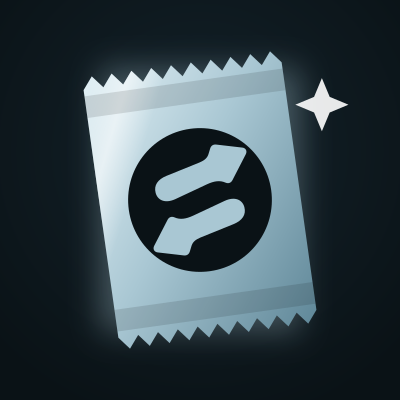
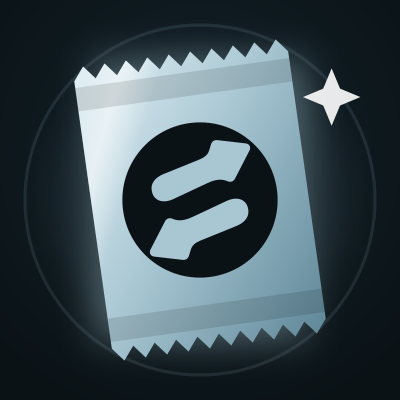
stonkpacks.store and @StonkPacksStore: site links, X profile picture, header and first post in StonkFun steel blue
Claude-Session: https://claude.ai/code/session_01CKizwNUuLhvCqaYYh9hKp6

diff --git a/assets/brand/x-header.html b/assets/brand/x-header.html
@@ -8,33 +8,33 @@
 <link rel="stylesheet" href="https://fonts.googleapis.com/css2?family=Inter:wght@500;600;700;800;900&family=JetBrains+Mono:wght@700&family=Space+Grotesk:wght@600;700&display=swap">
 <link rel="stylesheet" href="../../css/style.css">
 <style>
-  html, body { margin: 0; background: #050607; }
-  .hdr { position: relative; width: 1500px; height: 500px; overflow: hidden; background: #050607; }
+  html, body { margin: 0; background: #0a1216; }
+  .hdr { position: relative; width: 1500px; height: 500px; overflow: hidden; background: #0a1216; }
   /* tilted wall of real cards on the right, fading into the dark */
   .wall { position: absolute; right: -170px; top: -230px; width: 1250px; height: 1000px; perspective: 1400px; }
   .grid { position: absolute; inset: 0; display: grid; grid-template-columns: repeat(7, 150px); gap: 18px; justify-content: center; align-content: center;
     transform: rotateX(28deg) rotateY(-24deg) rotateZ(14deg); transform-style: preserve-3d; }
   .grid .card { width: 150px; box-shadow: 0 18px 30px rgba(0, 0, 0, 0.6); }
   .grid .card .foil { display: none; }
-  .grid .hot { box-shadow: 0 0 0 3px #14f195, 0 0 46px rgba(0, 236, 151, 0.75); }
+  .grid .hot { box-shadow: 0 0 0 3px #ffd277, 0 0 46px rgba(255, 196, 92, 0.7); }
   .fade { position: absolute; inset: 0; z-index: 1; pointer-events: none;
     background:
-      linear-gradient(90deg, #050607 0%, #050607 34%, rgba(5, 6, 7, 0.85) 52%, rgba(5, 6, 7, 0.2) 72%, rgba(5, 6, 7, 0.05) 100%),
-      linear-gradient(0deg, rgba(5, 6, 7, 0.9), transparent 30%, transparent 75%, rgba(5, 6, 7, 0.7)); }
-  .glow { position: absolute; z-index: 1; left: -200px; top: -120px; width: 900px; height: 700px; background: radial-gradient(closest-side, rgba(0, 236, 151, 0.2), transparent); }
+      linear-gradient(90deg, #0a1216 0%, #0a1216 34%, rgba(10, 18, 22, 0.85) 52%, rgba(10, 18, 22, 0.2) 72%, rgba(10, 18, 22, 0.05) 100%),
+      linear-gradient(0deg, rgba(10, 18, 22, 0.9), transparent 30%, transparent 75%, rgba(10, 18, 22, 0.7)); }
+  .glow { position: absolute; z-index: 1; left: -200px; top: -120px; width: 900px; height: 700px; background: radial-gradient(closest-side, rgba(169, 199, 211, 0.2), transparent); }
   .scan { position: absolute; inset: 0; z-index: 1; background: repeating-linear-gradient(0deg, rgba(255, 255, 255, 0.025) 0 1px, transparent 1px 4px); }
   .copy { position: absolute; z-index: 2; left: 84px; top: 64px; width: 900px; }
-  .kick { display: inline-flex; align-items: center; gap: 10px; padding: 8px 16px 8px 12px; border-radius: 999px; background: rgba(0, 236, 151, 0.12); border: 1px solid rgba(0, 236, 151, 0.5); color: #14f195; font: 800 15px/1 Inter, sans-serif; letter-spacing: 0.16em; }
-  .kick i { width: 10px; height: 10px; border-radius: 50%; background: #14f195; box-shadow: 0 0 0 5px rgba(0, 236, 151, 0.2), 0 0 14px #14f195; }
+  .kick { display: inline-flex; align-items: center; gap: 10px; padding: 8px 16px 8px 12px; border-radius: 999px; background: rgba(169, 199, 211, 0.12); border: 1px solid rgba(169, 199, 211, 0.5); color: #a9c7d3; font: 800 15px/1 Inter, sans-serif; letter-spacing: 0.16em; }
+  .kick i { width: 10px; height: 10px; border-radius: 50%; background: #a9c7d3; box-shadow: 0 0 0 5px rgba(169, 199, 211, 0.2), 0 0 14px #a9c7d3; }
   h1 { margin: 22px 0 0; font: 700 80px/0.95 'Space Grotesk', sans-serif; letter-spacing: -0.045em; color: #fff; }
-  h1 span { display: block; background: linear-gradient(90deg, #14f195, #7df3ff 55%, #a99bff); -webkit-background-clip: text; background-clip: text; color: transparent; }
+  h1 span { display: block; background: linear-gradient(90deg, #a9c7d3, #e8f4f8 45%, #ffd277); -webkit-background-clip: text; background-clip: text; color: transparent; }
   .sub { margin-top: 22px; display: flex; align-items: center; gap: 14px; font: 700 21px/1 Inter, sans-serif; color: rgba(255, 255, 255, 0.78); }
   .sub b { color: #fff; }
   .sub .sep { width: 6px; height: 6px; border-radius: 50%; background: rgba(255, 255, 255, 0.35); }
-  .brand { position: absolute; z-index: 2; right: 46px; bottom: 34px; display: flex; align-items: center; gap: 14px; padding: 12px 20px 12px 12px; border-radius: 16px; background: rgba(5, 6, 7, 0.78); border: 1px solid rgba(255, 255, 255, 0.14); backdrop-filter: blur(8px); }
+  .brand { position: absolute; z-index: 2; right: 46px; bottom: 34px; display: flex; align-items: center; gap: 14px; padding: 12px 20px 12px 12px; border-radius: 16px; background: rgba(10, 18, 22, 0.78); border: 1px solid rgba(255, 255, 255, 0.14); backdrop-filter: blur(8px); }
   .brand img { width: 44px; height: 44px; }
   .brand span { font: 700 28px/1 'Space Grotesk', sans-serif; color: #fff; letter-spacing: -0.03em; }
-  .brand span b { color: #14f195; margin-left: 0.2em; }
+  .brand span b { color: #a9c7d3; margin-left: 0.2em; }
   .brand em { font: 700 17px/1 'JetBrains Mono', monospace; font-style: normal; color: rgba(255, 255, 255, 0.7); padding-left: 14px; border-left: 1px solid rgba(255, 255, 255, 0.2); }
 </style>
 </head>
@@ -43,11 +43,11 @@
   <div class="wall"><div class="grid" id="grid"></div></div>
   <div class="glow"></div><div class="fade"></div><div class="scan"></div>
   <div class="copy">
-    <div class="kick"><i></i>ON SOLANA · LAUNCHING ON STONKFUN</div>
+    <div class="kick"><i></i>POKÉMON PACKS ON SOLANA</div>
     <h1>Open real Pokémon<span>packs on-chain.</span></h1>
-    <div class="sub"><span>Packs from <b>$10</b></span><span class="sep"></span><span>Paid in <b>SOL</b></span><span class="sep"></span><span>Hits up to <b>$320</b></span></div>
+    <div class="sub"><span>Packs from <b>$10</b></span><span class="sep"></span><span>Paid in <b>SOL</b></span><span class="sep"></span><span>Hits up to <b>$320</b></span><span class="sep"></span><span>On <b>StonkFun</b></span></div>
   </div>
-  <div class="brand"><img src="stonkpacks-icon.svg" alt=""><span>Stonk<b>Packs</b></span><em>stonkfun.xyz</em></div>
+  <div class="brand"><img src="stonkpacks-icon.svg" alt=""><span>Stonk<b>Packs</b></span><em>stonkpacks.store</em></div>
 </div>
 <script>window.PN_CONFIG = { remoteImages: false };</script>
 <script src="../../js/cards.js"></script>

diff --git a/assets/brand/x-post.html b/assets/brand/x-post.html
@@ -8,15 +8,15 @@
 <link rel="stylesheet" href="https://fonts.googleapis.com/css2?family=Inter:wght@500;600;700;800;900&family=JetBrains+Mono:wght@700&family=Space+Grotesk:wght@600;700&display=swap">
 <link rel="stylesheet" href="../../css/style.css">
 <style>
-  html, body { margin: 0; background: #040506; }
-  .post { position: relative; width: 1600px; height: 900px; overflow: hidden; background: #040506; }
+  html, body { margin: 0; background: #0a1216; }
+  .post { position: relative; width: 1600px; height: 900px; overflow: hidden; background: #0a1216; }
   /* light bursting out of the pack */
   .burst { position: absolute; left: 1150px; top: 330px; width: 2200px; height: 2200px; transform: translate(-50%, -50%);
     background: repeating-conic-gradient(from 0deg, rgba(255, 214, 120, 0.16) 0 3deg, transparent 3deg 11deg);
     -webkit-mask-image: radial-gradient(closest-side, #000 8%, transparent 62%); mask-image: radial-gradient(closest-side, #000 8%, transparent 62%); }
   .halo { position: absolute; left: 1150px; top: 360px; width: 1100px; height: 900px; transform: translate(-50%, -50%);
     background: radial-gradient(closest-side, rgba(255, 196, 92, 0.55), rgba(245, 120, 40, 0.18) 45%, transparent 70%); }
-  .floor { position: absolute; left: 0; right: 0; bottom: 0; height: 300px; background: linear-gradient(0deg, #040506 20%, transparent); z-index: 3; }
+  .floor { position: absolute; left: 0; right: 0; bottom: 0; height: 300px; background: linear-gradient(0deg, #0a1216 20%, transparent); z-index: 3; }
   .grain { position: absolute; inset: 0; z-index: 6; pointer-events: none; opacity: 0.35; background: radial-gradient(rgba(255, 255, 255, 0.06) 1px, transparent 1.2px) 0 0 / 5px 5px; }
 
   /* the pack, torn open at the top */
@@ -48,9 +48,9 @@
   .copy { position: absolute; z-index: 5; left: 90px; top: 92px; width: 720px; }
   .logo { display: flex; align-items: center; gap: 16px; font: 700 40px/1 'Space Grotesk', sans-serif; color: #fff; letter-spacing: -0.03em; }
   .logo img { width: 58px; height: 58px; }
-  .logo b { color: #14f195; margin-left: 0.2em; }
-  .live { display: inline-flex; align-items: center; gap: 10px; margin-left: 10px; padding: 8px 14px; border-radius: 999px; background: #14f195; color: #00170e; font: 900 14px/1 Inter, sans-serif; letter-spacing: 0.14em; }
-  .live i { width: 8px; height: 8px; border-radius: 50%; background: #00170e; }
+  .logo b { color: #a9c7d3; margin-left: 0.2em; }
+  .live { display: inline-flex; align-items: center; gap: 10px; margin-left: 10px; padding: 8px 14px; border-radius: 999px; background: #a9c7d3; color: #0a1216; font: 900 14px/1 Inter, sans-serif; letter-spacing: 0.14em; }
+  .live i { width: 8px; height: 8px; border-radius: 50%; background: #0a1216; }
   h1 { margin: 64px 0 0; font: 700 96px/0.95 'Space Grotesk', sans-serif; letter-spacing: -0.05em; color: #fff; }
   h1 .gold { background: linear-gradient(90deg, #ffe7a3, #ffb84a 60%, #ff8a3d); -webkit-background-clip: text; background-clip: text; color: transparent; }
   .lede { margin: 30px 0 0; font: 600 27px/1.4 Inter, sans-serif; color: rgba(255, 255, 255, 0.75); max-width: 640px; }
@@ -59,9 +59,9 @@
   .stat { padding: 18px 22px; min-width: 150px; border-radius: 18px; background: rgba(255, 255, 255, 0.05); border: 1px solid rgba(255, 255, 255, 0.12); }
   .stat b { display: block; font: 700 38px/1 'Space Grotesk', sans-serif; color: #fff; letter-spacing: -0.03em; }
   .stat span { display: block; margin-top: 8px; font: 700 15px/1 Inter, sans-serif; letter-spacing: 0.1em; text-transform: uppercase; color: rgba(255, 255, 255, 0.55); }
-  .stat.g b { color: #14f195; }
-  .url { position: absolute; z-index: 5; right: 70px; bottom: 84px; display: flex; align-items: center; gap: 14px; padding: 18px 26px; border-radius: 18px; background: #14f195; color: #00170e;
-    font: 700 34px/1 'Space Grotesk', sans-serif; letter-spacing: -0.02em; box-shadow: 0 18px 40px rgba(0, 236, 151, 0.35); }
+  .stat.g b { color: #a9c7d3; }
+  .url { position: absolute; z-index: 5; right: 70px; bottom: 84px; display: flex; align-items: center; gap: 14px; padding: 18px 26px; border-radius: 18px; background: #a9c7d3; color: #0a1216;
+    font: 700 34px/1 'Space Grotesk', sans-serif; letter-spacing: -0.02em; box-shadow: 0 18px 40px rgba(169, 199, 211, 0.35); }
   .url svg { width: 30px; height: 30px; }
 </style>
 </head>
@@ -81,9 +81,10 @@
   <div class="stats">
     <div class="stat g"><b>98%</b><span>Avg value</span></div>
     <div class="stat"><b>$10</b><span>Packs from</span></div>
+    <div class="stat"><b>SOL</b><span>On StonkFun</span></div>
     <div class="stat"><b>100%</b><span>On-chain RNG</span></div>
   </div>
-  <div class="url">Launching on StonkFun<svg viewBox="0 0 24 24" fill="none" stroke="currentColor" stroke-width="2.6" stroke-linecap="round" stroke-linejoin="round"><path d="M5 12h14M13 6l6 6-6 6"/></svg></div>
+  <div class="url">stonkpacks.store<svg viewBox="0 0 24 24" fill="none" stroke="currentColor" stroke-width="2.6" stroke-linecap="round" stroke-linejoin="round"><path d="M5 12h14M13 6l6 6-6 6"/></svg></div>
   <div class="grain"></div>
 </div>
 <script>window.PN_CONFIG = { remoteImages: false };</script>

diff --git a/index.html b/index.html
@@ -14,7 +14,7 @@
   <link rel="preconnect" href="https://fonts.googleapis.com">
   <link rel="preconnect" href="https://fonts.gstatic.com" crossorigin>
   <link rel="stylesheet" href="https://fonts.googleapis.com/css2?family=Inter:wght@400;500;600;700;800&family=JetBrains+Mono:wght@500;700&family=Space+Grotesk:wght@500;600;700&display=swap">
-  <link rel="stylesheet" href="css/style.css?v=20261023.3">
+  <link rel="stylesheet" href="css/style.css?v=20261023.4">
 </head>
 <body>
   <div id="app"></div>
@@ -23,13 +23,13 @@
     // nearNetwork: 'mainnet' or 'testnet' for NEAR wallet sign-in (match NEAR_NETWORK on the server).
     window.PN_CONFIG = { remoteImages: true, nearNetwork: 'mainnet' };
   </script>
-  <script src="js/cards.js?v=20261023.3"></script>
-  <script src="js/auth.js?v=20261023.3"></script>
-  <script src="js/sha256.js?v=20261023.3"></script>
-  <script src="js/data.js?v=20261023.3"></script>
-  <script src="js/engine.js?v=20261023.3"></script>
-  <script src="js/store.js?v=20261023.3"></script>
-  <script src="js/wallets.js?v=20261023.3"></script>
-  <script src="js/app.js?v=20261023.3"></script>
+  <script src="js/cards.js?v=20261023.4"></script>
+  <script src="js/auth.js?v=20261023.4"></script>
+  <script src="js/sha256.js?v=20261023.4"></script>
+  <script src="js/data.js?v=20261023.4"></script>
+  <script src="js/engine.js?v=20261023.4"></script>
+  <script src="js/store.js?v=20261023.4"></script>
+  <script src="js/wallets.js?v=20261023.4"></script>
+  <script src="js/app.js?v=20261023.4"></script>
 </body>
 </html>

diff --git a/js/data.js b/js/data.js
@@ -18,7 +18,7 @@
   // the server's TREASURY_SOL env var overrides it. This wallet also opens packs free (owner).
   var TREASURY_SOL = '8mTFXXZtXvb7oBWztYf1j2H14T1QwFJjtT5rkR7t8Beb';
   var LAUNCHPAD = { name: 'StonkFun', url: 'https://www.stonkfun.xyz/' }; // where the token launches
-  var VERSION = '20261023.3'; // shown in the footer and /api/config; bump with the ?v= in index.html
+  var VERSION = '20261023.4'; // shown in the footer and /api/config; bump with the ?v= in index.html
 
   // Packs are priced in US dollars and paid in NEAR through the StonkPacks interaction wallet's
   // contract, which forwards every payment to the treasury. The NEAR amount of each pack is set on
@@ -27,7 +27,8 @@
   var TREASURY = 'nearpacks.near'; // receives every pack payment
   var CONTRACT_OWNER = 'nearpacks.near'; // owner of the StonkPacks contract (prices, treasury)
   var ADMIN_ACCOUNTS = ['nearpacks.near']; // wallets that see the admin page
-  var X_HANDLE = 'NearPacks'; // official X account (link only)
+  var X_HANDLE = 'StonkPacksStore'; // official X account (link only)
+  var WEBSITE = 'stonkpacks.store'; // official website
 
   // On-chain pack prices for set_prices: each pack's USD price converted to the smallest unit
   // (yoctoNEAR: 24 decimals), given the USD price of one NEAR as a decimal string. Exact BigInt math.
@@ -224,6 +225,7 @@
     VERSION: VERSION,
     EV_RATIO: EV_RATIO,
     X_HANDLE: X_HANDLE,
+    WEBSITE: WEBSITE,
     BUYBACK_RATE: BUYBACK_RATE,
     PACKS: PACKS,
     MULTI: MULTI,

diff --git a/README.md b/README.md
@@ -1,5 +1,7 @@
 # StonkPacks
 
+Website: https://stonkpacks.store · X: [@StonkPacksStore](https://x.com/StonkPacksStore)
+
 Open real Pokémon card packs with **SOL** on Solana. The StonkPacks token launches on [StonkFun](https://www.stonkfun.xyz/).
 
 - **Payments:** one plain SOL transfer from the player to the treasury wallet (`TREASURY_SOL`), at the live SOL/USD price (median of Binance, CoinGecko, Kraken, Coinbase, OKX, Bybit), rounded up to 0.0001 SOL.
@@ -34,7 +36,7 @@ Players connect a NEAR wallet, open Pokémon card packs with published odds, kee
 - **Buyback at 96%** (`BUYBACK_RATE`) of a card's value, paid in NEAR from nearpacks.near at the same rate as the pack prices.
 - **Dev wallet**: `nearpacks.near` (`DEV_ACCOUNTS`) opens packs without paying; its openings use server randomness and are recorded like any other (vault, history, ranks, database), marked as dev openings.
 - **Real cards**: 740 Pokémon TCG cards from Scarlet & Violet 151, Mega Evolution, Black Bolt and White Flare (TCGdex data). Black White Rare, Mega Hyper Rare and gold Hyper Rare cards use the drawn card art (their etched-foil scans look washed out on screen). Every Pokémon has artwork: dream-world sprites up to Gen 5, PokeAPI official artwork for newer Pokémon (`npm run build:cards` downloads it once into `.cache/`).
-- **Docs** at `/docs` and a leaderboard by vault value. Official X: [@NearPacks](https://x.com/NearPacks).
+- **Docs** at `/docs` and a leaderboard by vault value. Official X: [@StonkPacksStore](https://x.com/StonkPacksStore).
 
 ## Going live (direct mode)
 
@@ -80,7 +82,7 @@ cargo build --release --target wasm32-unknown-unknown    # toolchain 1.81 (rust-
 1. Railway → **New Project** → **Deploy from GitHub repo** → this repo / branch.
 2. Service → **Settings → Volumes** (or right-click the service → **Attach volume**), mount path `/data`. The server stores its database there automatically (`RAILWAY_VOLUME_MOUNT_PATH`); without a volume, data is lost on every redeploy (the log warns).
 3. **Variables**: none required. Optional `PAYOUT_KEY` (buyback), `NEAR_USD` (backup price).
-4. **Settings → Networking → Custom Domain** → `nearpacks.fun`, then set the DNS record Railway shows (CNAME) at your domain registrar, and remove the domain from Vercel.
+4. **Settings → Networking → Custom Domain** → `stonkpacks.store`, then set the DNS record Railway shows (CNAME) at your domain registrar, and remove the domain from Vercel.
 
 ## Deploy on Vercel
 
